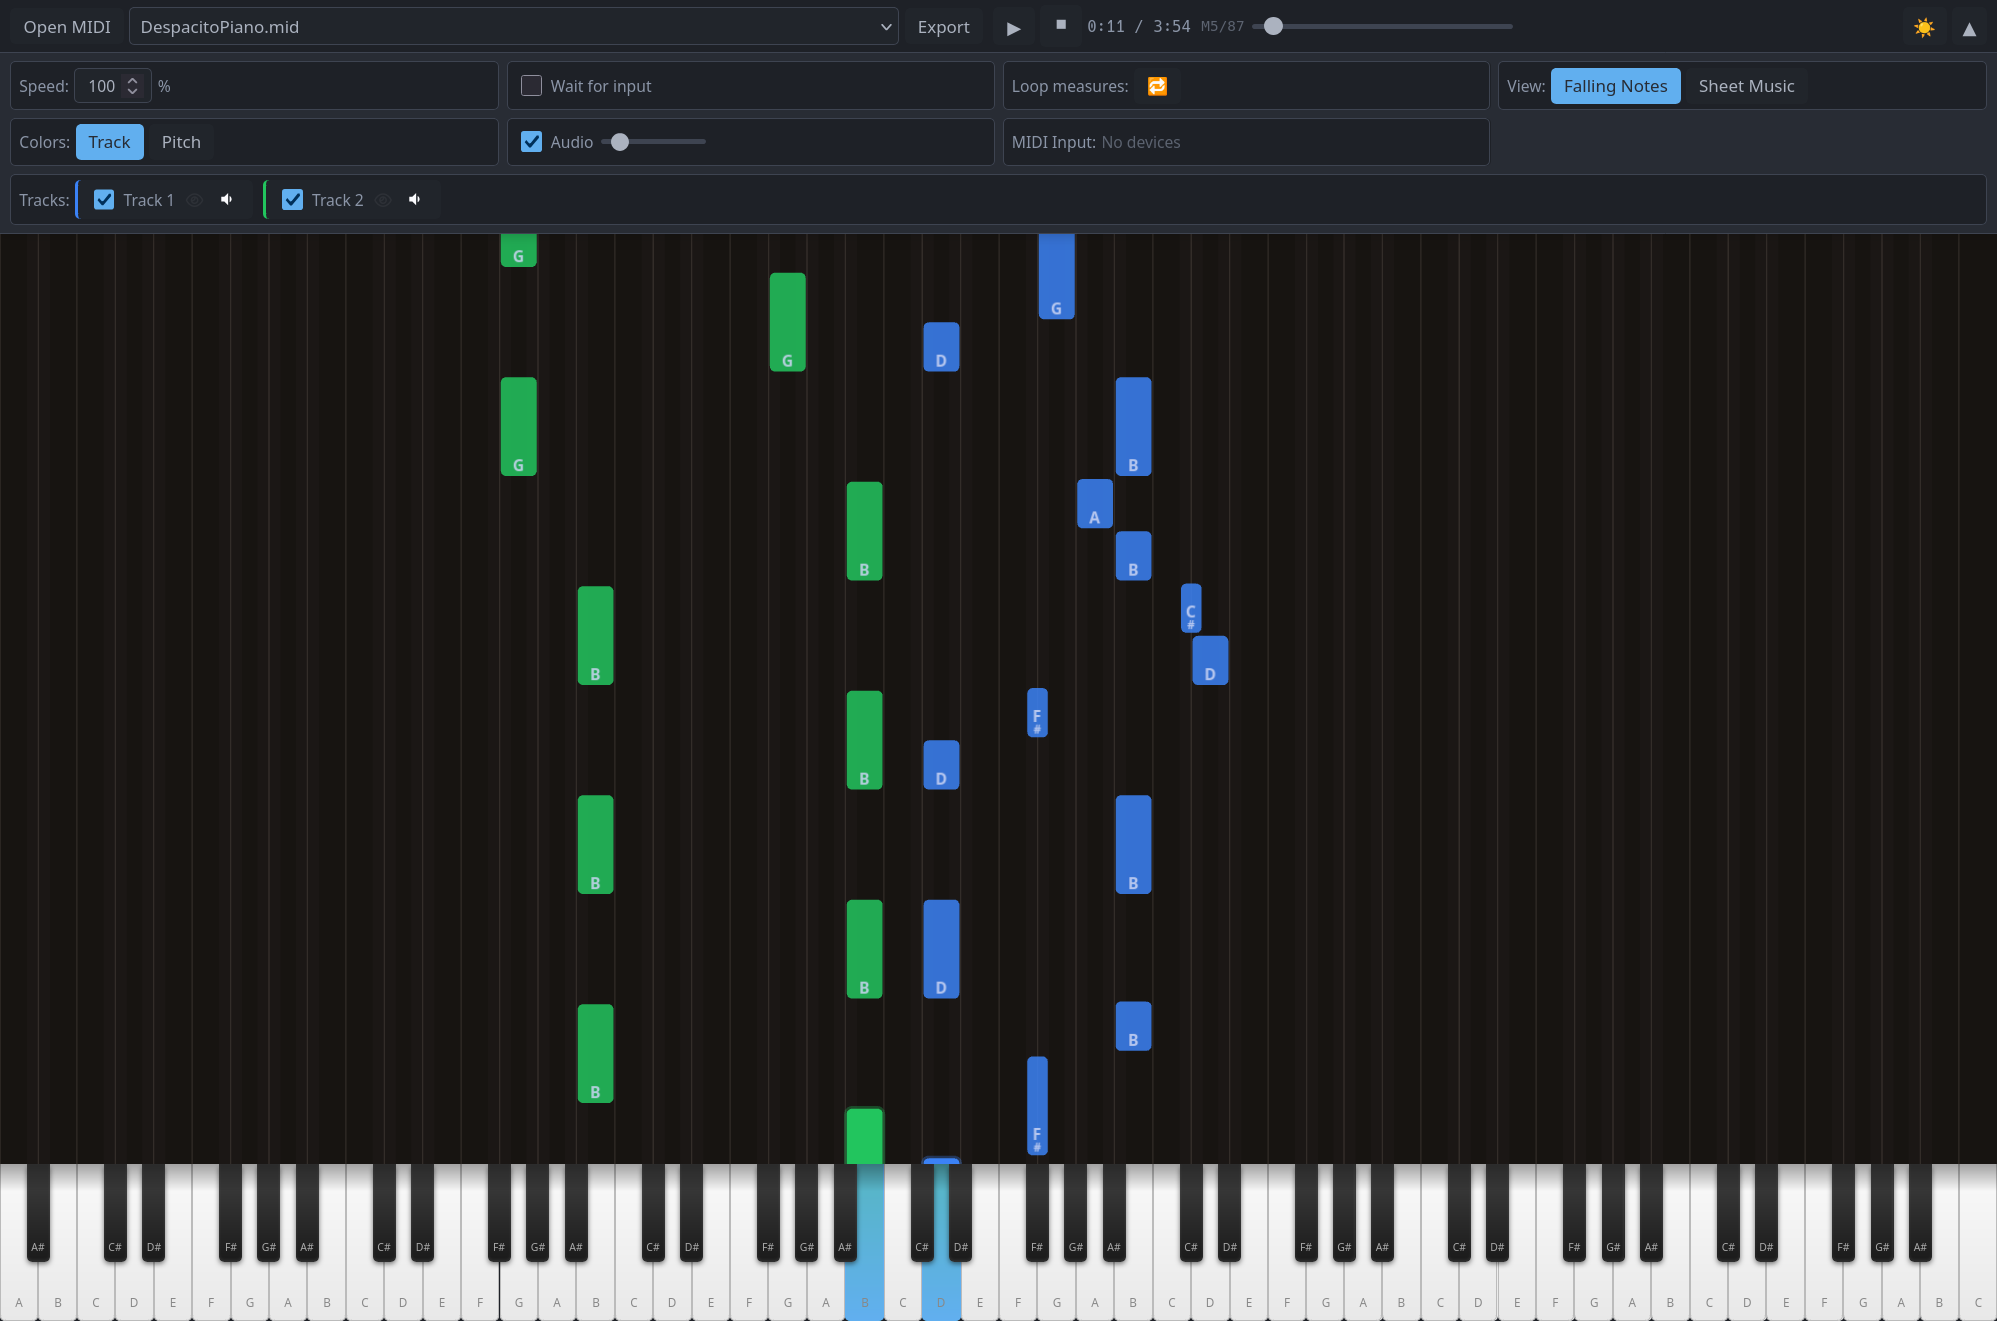
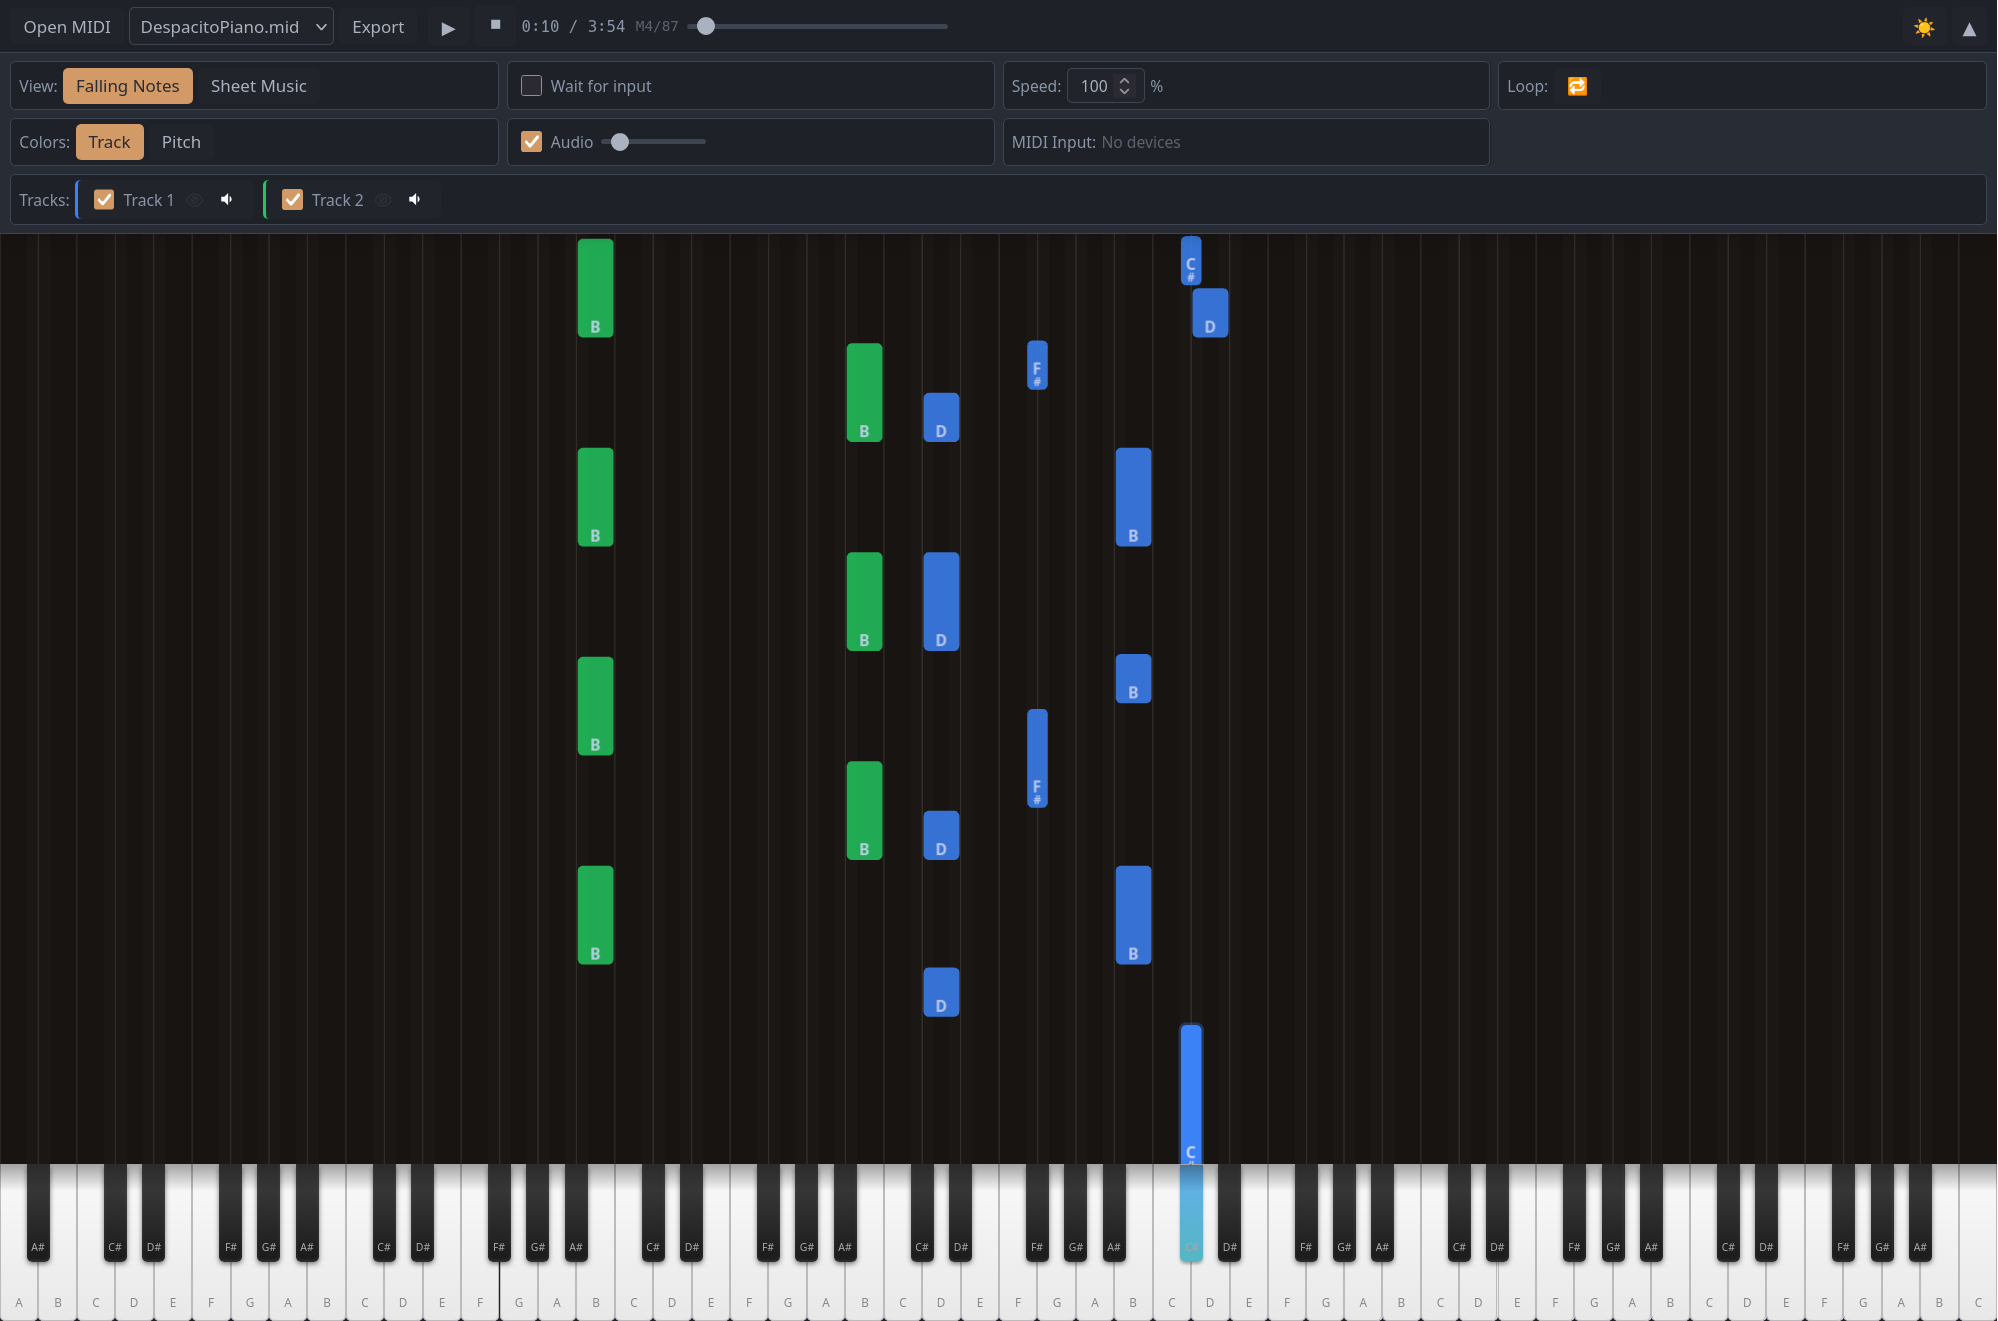
Switch to VSCO piano samples and update UI
- Replace Salamander Grand Piano with VSCO Community Edition samples
- Add attribution section to README for piano samples
- Reorder controls panel: view mode and wait mode now at top
- Change accent colors from blue to orange/yellow
- Update screenshots

diff --git a/client/src/hooks/useAudioEngine.ts b/client/src/hooks/useAudioEngine.ts
@@ -1,4 +1,4 @@
-import { useEffect, useRef, useCallback } from 'react';
+import { useEffect, useRef, useCallback, useState } from 'react';
 import * as Tone from 'tone';
 import { useMidiStore } from '../stores/midiStore';
 import { getNoteNameFromNumber } from '../types/midi';
@@ -6,55 +6,61 @@ import { getNoteNameFromNumber } from '../types/midi';
 /** Common interface for synth/sampler */
 type Instrument = Tone.PolySynth | Tone.Sampler;
 
+/** Sample configuration for each piano sound */
+interface SampleConfig {
+  baseUrl: string;
+  urls: Record<string, string>;
+}
+
+/** Piano sample configuration */
+const PIANO_SAMPLES: SampleConfig = {
+  baseUrl: 'https://nbrosowsky.github.io/tonejs-instruments/samples/piano/',
+  urls: {
+    A1: 'A1.mp3',
+    A2: 'A2.mp3',
+    A3: 'A3.mp3',
+    A4: 'A4.mp3',
+    A5: 'A5.mp3',
+    A6: 'A6.mp3',
+    C2: 'C2.mp3',
+    C3: 'C3.mp3',
+    C4: 'C4.mp3',
+    C5: 'C5.mp3',
+    C6: 'C6.mp3',
+    C7: 'C7.mp3',
+    'D#2': 'Ds2.mp3',
+    'D#3': 'Ds3.mp3',
+    'D#4': 'Ds4.mp3',
+    'D#5': 'Ds5.mp3',
+    'D#6': 'Ds6.mp3',
+    'F#2': 'Fs2.mp3',
+    'F#3': 'Fs3.mp3',
+    'F#4': 'Fs4.mp3',
+    'F#5': 'Fs5.mp3',
+    'F#6': 'Fs6.mp3',
+  },
+};
+
 /** Hook for audio playback using Tone.js */
 export function useAudioEngine() {
   const { settings, liveNotes } = useMidiStore();
   const samplerRef = useRef<Instrument | null>(null);
   const isLoadedRef = useRef(false);
+  const [isLoading, setIsLoading] = useState(true);
 
-  // Initialize Tone.js sampler with Salamander Grand Piano samples
+  // Initialize piano samples
   useEffect(() => {
-    // Use Salamander Grand Piano samples (high-quality acoustic grand piano)
     const sampler = new Tone.Sampler({
-      urls: {
-        A0: 'A0.mp3',
-        C1: 'C1.mp3',
-        'D#1': 'Ds1.mp3',
-        'F#1': 'Fs1.mp3',
-        A1: 'A1.mp3',
-        C2: 'C2.mp3',
-        'D#2': 'Ds2.mp3',
-        'F#2': 'Fs2.mp3',
-        A2: 'A2.mp3',
-        C3: 'C3.mp3',
-        'D#3': 'Ds3.mp3',
-        'F#3': 'Fs3.mp3',
-        A3: 'A3.mp3',
-        C4: 'C4.mp3',
-        'D#4': 'Ds4.mp3',
-        'F#4': 'Fs4.mp3',
-        A4: 'A4.mp3',
-        C5: 'C5.mp3',
-        'D#5': 'Ds5.mp3',
-        'F#5': 'Fs5.mp3',
-        A5: 'A5.mp3',
-        C6: 'C6.mp3',
-        'D#6': 'Ds6.mp3',
-        'F#6': 'Fs6.mp3',
-        A6: 'A6.mp3',
-        C7: 'C7.mp3',
-        'D#7': 'Ds7.mp3',
-        'F#7': 'Fs7.mp3',
-        A7: 'A7.mp3',
-        C8: 'C8.mp3',
-      },
-      baseUrl: 'https://tonejs.github.io/audio/salamander/',
+      urls: PIANO_SAMPLES.urls,
+      baseUrl: PIANO_SAMPLES.baseUrl,
       onload: () => {
-        console.log('[AudioEngine] Salamander Grand Piano samples loaded');
+        console.log('[AudioEngine] Piano samples loaded');
         isLoadedRef.current = true;
+        setIsLoading(false);
       },
       onerror: (err) => {
-        console.warn('[AudioEngine] Failed to load samples, falling back to synth:', err);
+        console.warn('[AudioEngine] Failed to load piano samples:', err);
+        setIsLoading(false);
       },
     }).toDestination();
 
@@ -166,5 +172,6 @@ export function useAudioEngine() {
     stopAll,
     resumeAudio,
     isLoaded: isLoadedRef.current,
+    isLoading,
   };
 }

diff --git a/client/src/components/Controls/Controls.tsx b/client/src/components/Controls/Controls.tsx
@@ -149,6 +149,35 @@ export function Controls() {
       {/* Expanded grid content */}
       {isExpanded && (
         <div className={styles.grid}>
+          {/* Render mode toggle */}
+          <div className={styles.gridItem}>
+            <label className={styles.label}>View:</label>
+            <button
+              className={`${styles.button} ${!settings.showSheetMusic ? styles.active : ''}`}
+              onClick={() => updateSettings({ showSheetMusic: false })}
+            >
+              Falling Notes
+            </button>
+            <button
+              className={`${styles.button} ${settings.showSheetMusic ? styles.active : ''}`}
+              onClick={() => updateSettings({ showSheetMusic: true })}
+            >
+              Sheet Music
+            </button>
+          </div>
+
+          {/* Wait mode toggle */}
+          <div className={styles.gridItem}>
+            <label className={styles.checkboxLabel}>
+              <input
+                type="checkbox"
+                checked={waitMode}
+                onChange={toggleWaitMode}
+              />
+              Wait for input
+            </label>
+          </div>
+
           {/* Speed control */}
           <div className={styles.gridItem}>
             <label className={styles.label}>Speed:</label>
@@ -169,22 +198,10 @@ export function Controls() {
             <span className={styles.label}>%</span>
           </div>
 
-          {/* Wait mode toggle */}
-          <div className={styles.gridItem}>
-            <label className={styles.checkboxLabel}>
-              <input
-                type="checkbox"
-                checked={waitMode}
-                onChange={toggleWaitMode}
-              />
-              Wait for input
-            </label>
-          </div>
-
           {/* Loop controls */}
           {currentFile && (
             <div className={styles.gridItem}>
-              <label className={styles.label}>Loop measures:</label>
+              <label className={styles.label}>Loop:</label>
               <button
                 className={`${styles.button} ${loopEnabled ? styles.active : ''}`}
                 onClick={toggleLoop}
@@ -235,23 +252,6 @@ export function Controls() {
               )}
             </div>
           )}
-
-          {/* Render mode toggle */}
-          <div className={styles.gridItem}>
-            <label className={styles.label}>View:</label>
-            <button
-              className={`${styles.button} ${!settings.showSheetMusic ? styles.active : ''}`}
-              onClick={() => updateSettings({ showSheetMusic: false })}
-            >
-              Falling Notes
-            </button>
-            <button
-              className={`${styles.button} ${settings.showSheetMusic ? styles.active : ''}`}
-              onClick={() => updateSettings({ showSheetMusic: true })}
-            >
-              Sheet Music
-            </button>
-          </div>
 
           {/* Note color mode toggle (only for falling notes view) */}
           {!settings.showSheetMusic && (

diff --git a/client/src/index.css b/client/src/index.css
@@ -35,8 +35,8 @@
   --text-secondary: #8b95a7;
   --text-muted: var(--od-fg-muted);
   --border-color: var(--od-bg-lighter);
-  --accent: var(--od-blue);
-  --accent-hover: var(--od-cyan);
+  --accent: var(--od-orange);
+  --accent-hover: var(--od-yellow);
   --warning: var(--od-orange);
   --canvas-bg: var(--od-bg-light);
 
@@ -88,8 +88,8 @@
   --text-secondary: var(--ctp-subtext1);
   --text-muted: var(--ctp-overlay1);
   --border-color: var(--ctp-surface1);
-  --accent: var(--ctp-blue);
-  --accent-hover: var(--ctp-sapphire);
+  --accent: #d19a66;
+  --accent-hover: #e5c07b;
   --warning: var(--ctp-peach);
   --canvas-bg: var(--ctp-mantle);
 }

diff --git a/README.md b/README.md
@@ -61,7 +61,7 @@ A modern web-based MIDI player and piano learning tool with falling notes visual
 - Live note visualization on keyboard and falling notes
 
 ### Audio
-- High-quality Salamander Grand Piano samples
+- High-quality piano samples (VSCO Community Edition)
 - Velocity-sensitive playback
 - Master volume control
 - Polyphonic playback
@@ -117,7 +117,7 @@ bun run start:prod
 
 - **Frontend**: React 19, TypeScript, Vite
 - **Visualization**: PixiJS (falling notes), VexFlow (sheet music)
-- **Audio**: Tone.js with Salamander Grand Piano samples
+- **Audio**: Tone.js with VSCO piano samples
 - **MIDI**: WebMIDI API, midi-file parser
 - **State**: Zustand with localStorage persistence
 - **Backend**: NestJS (serves static files and API)
@@ -141,6 +141,13 @@ piano/
 ├── src/                    # NestJS backend
 └── dist/                   # Production build output
 ```
+
+## Attributions
+
+### Piano Samples
+Piano samples from [VSCO Community Edition](https://versilian-studios.com/vsco-community/) by Versilian Studios - [CC0 (Public Domain)](https://creativecommons.org/publicdomain/zero/1.0/)
+
+Samples are served via [tonejs-instruments](https://github.com/nbrosowsky/tonejs-instruments).
 
 ## License
 
